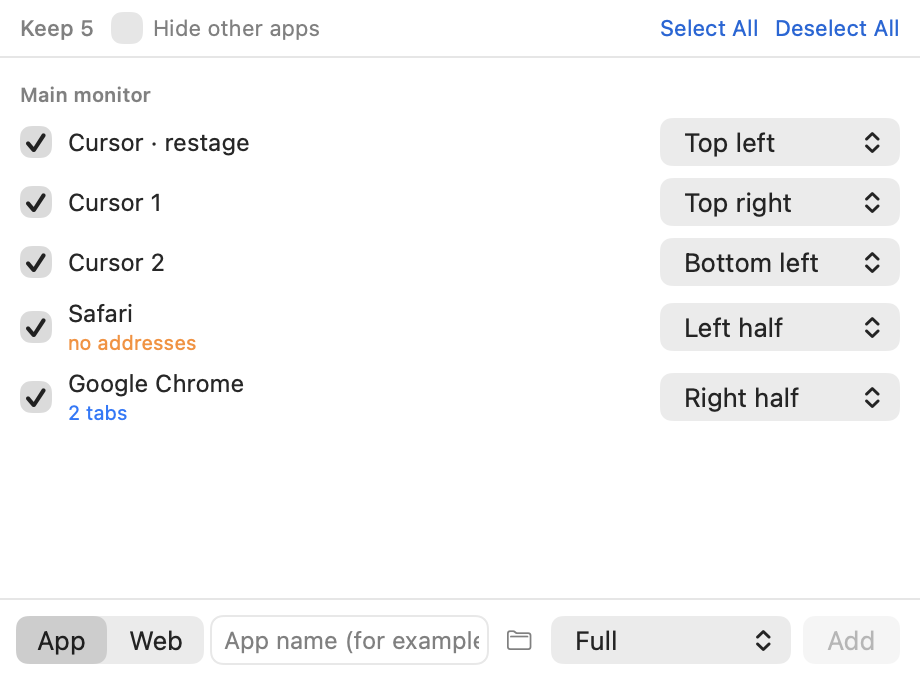
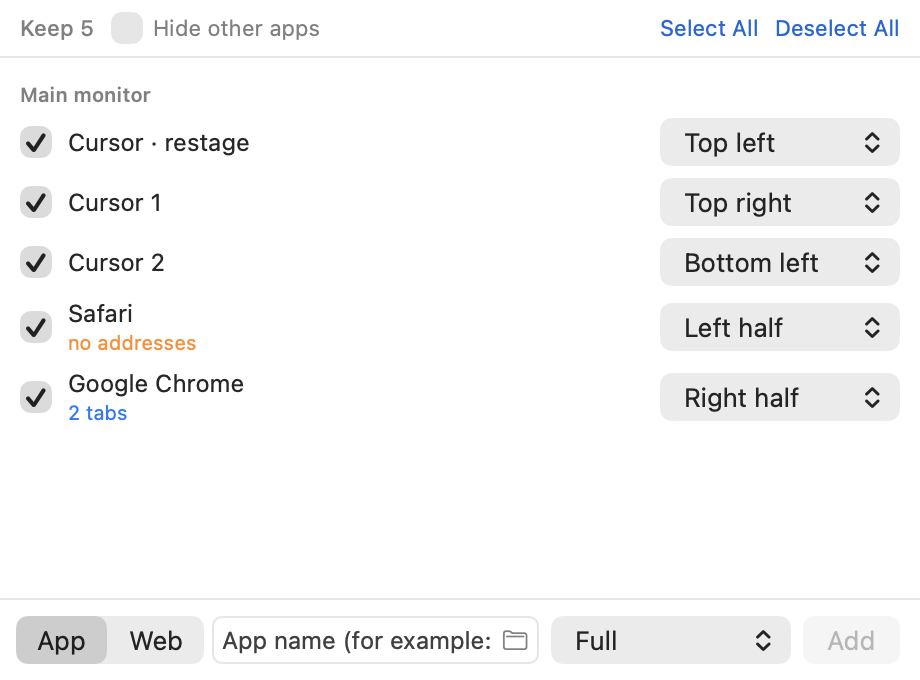
fix: 앱을 끌어다 놓으면 경로가 아니라 앱이 들어간다
Books.app을 끌어다 놓으니 항목이 생기지 않고 입력칸에 "Applications/Books.app"
이라는 글자만 들어갔다. 드롭을 받는 구역보다 입력칸 자신의 글자 드롭이 먼저
먹었다.

입력칸에도 파일 드롭을 직접 붙여, .app이면 글자를 넣지 않고 표시 이름을 풀어
지금 고른 자리로 바로 넣는다. 어느 쪽이 먼저 먹든 결과가 같도록 추가할 때도
입력값이 경로처럼 보이면 번들에서 이름을 푼다. 앞의 슬래시가 떨어져 나간
"Applications/Books.app"도 붙여서 다시 시도한다. 경로를 손으로 붙여 넣어도
이제 된다. 웹 모드에서는 항목을 넣지 않고 브라우저 이름만 채운다.

폴더 단추는 입력칸 밖에 떠 있었다. roundedBorder에 여백을 주고 겹쳐도 테두리
바깥에 붙는다. 입력칸을 직접 조립해 단추를 안에 넣었다. 배경과 테두리는
시스템 색을 그대로 써서 화면 모드를 따라간다.

Changed region(s): [[0.2435, 0.9265, 0.5783, 0.9574]]

diff --git a/Sources/restage/DraftEditorView.swift b/Sources/restage/DraftEditorView.swift
@@ -350,15 +350,6 @@ struct DraftEditorView: View {
                 .frame(width: 90)
                 .onChange(of: addMode) { _ in suggestions = [] }
                 nameField
-                Button(action: chooseFile) {
-                    Image(systemName: "folder")
-                        .font(.system(size: 11))
-                        .foregroundStyle(.secondary)
-                        .frame(width: 20, height: 20)
-                        .contentShape(Rectangle())
-                }
-                .buttonStyle(.plain)
-                .help(L10n.string("draft.choose_app_file"))
                 Picker("", selection: $newPlacement) {
                     ForEach(Slot.allCases, id: \.self) { slot in
                         Text(SlotLabel.text(slot)).tag(Placement.slot(slot))
@@ -390,20 +381,42 @@ struct DraftEditorView: View {
         .padding(.vertical, 8)
         .background(isDropTarget ? Color.accentColor.opacity(0.08) : Color.clear)
         .onDrop(of: [.fileURL], isTargeted: $isDropTarget) { providers in
-            AppChooser.acceptDrop(providers) { name in addDropped(name) }
+            AppChooser.acceptDrop(providers) { name in addResolved(name) }
         }
     }
 
     private var nameField: some View {
-        TextField(
-            L10n.string(addMode == .app
-                ? "draft.app_name_placeholder" : "draft.browser_name_placeholder"),
-            text: $newAppName)
-            .textFieldStyle(.roundedBorder)
-            .font(.system(size: 12))
+        HStack(spacing: 0) {
+            TextField(
+                L10n.string(addMode == .app
+                    ? "draft.app_name_placeholder" : "draft.browser_name_placeholder"),
+                text: $newAppName)
+                .textFieldStyle(.plain)
+                .font(.system(size: 12))
+            Button(action: chooseFile) {
+                Image(systemName: "folder")
+                    .font(.system(size: 11))
+                    .foregroundStyle(.secondary)
+                    .frame(width: Self.fieldButtonWidth, height: 18)
+                    .contentShape(Rectangle())
+            }
+            .buttonStyle(.plain)
+            .help(L10n.string("draft.choose_app_file"))
+        }
+        .padding(.leading, 5)
+        .padding(.vertical, 3)
+        .background(
+            RoundedRectangle(cornerRadius: 5, style: .continuous)
+                .fill(Color(nsColor: .textBackgroundColor))
+                .overlay(
+                    RoundedRectangle(cornerRadius: 5, style: .continuous)
+                        .strokeBorder(Color(nsColor: .separatorColor))))
             .onSubmit { add() }
             .onChange(of: newAppName) { typed in
                 suggestions = AppChooser.suggestions(for: typed, browsersOnly: addMode == .web)
+            }
+            .onDrop(of: [.fileURL], isTargeted: nil) { providers in
+                AppChooser.acceptDrop(providers) { name in addResolved(name) }
             }
             .popover(
                 isPresented: Binding(
@@ -444,7 +457,13 @@ struct DraftEditorView: View {
         addError = nil
     }
 
-    private func addDropped(_ name: String) {
+    private func addResolved(_ name: String) {
+        guard addMode == .app else {
+            newAppName = name
+            suggestions = []
+            addError = nil
+            return
+        }
         switch newPlacement {
         case .slot(let slot):
             editor.add(.app(name, slot: slot))
@@ -453,6 +472,8 @@ struct DraftEditorView: View {
         case .keepSize:
             editor.add(.app(name, slot: .full))
         }
+        newAppName = ""
+        suggestions = []
         addError = nil
     }
 
@@ -470,38 +491,41 @@ struct DraftEditorView: View {
             .map(URLNormalizer.normalize)
     }
 
+    private static let fieldButtonWidth: CGFloat = 24
+
     private func add() {
         let typed = newAppName.trimmingCharacters(in: .whitespaces)
         guard !typed.isEmpty else { return }
+        guard let name = resolvedName(typed) else { return }
+
+        switch addMode {
+        case .app:
+            addResolved(name)
+            return
+        case .web:
+            let urls = parsedURLs
+            guard !urls.isEmpty else {
+                addError = L10n.string("draft.no_urls")
+                return
+            }
+            let slot: Slot?
+            if case .slot(let chosen) = newPlacement { slot = chosen } else { slot = nil }
+            editor.add(.browser(name, slot: slot, tabs: urls))
+            newURLs = ""
+        }
+        newAppName = ""
+        suggestions = []
+        addError = nil
+    }
+
+    private func resolvedName(_ typed: String) -> String? {
+        if let fromPath = AppChooser.appName(fromPath: typed) { return fromPath }
         do {
             let bundleID = try InstalledApps.resolve(name: typed)
-            let name = InstalledApps.displayName(bundleID: bundleID) ?? typed
-            switch addMode {
-            case .app:
-                switch newPlacement {
-                case .slot(let slot):
-                    editor.add(.app(name, slot: slot))
-                case .fullscreen:
-                    editor.add(.app(name, slot: .full, fullscreen: true))
-                case .keepSize:
-                    editor.add(.app(name, slot: .full))
-                }
-            case .web:
-                let urls = parsedURLs
-                guard !urls.isEmpty else {
-                    addError = L10n.string("draft.no_urls")
-                    return
-                }
-                let slot: Slot?
-                if case .slot(let chosen) = newPlacement { slot = chosen } else { slot = nil }
-                editor.add(.browser(name, slot: slot, tabs: urls))
-                newURLs = ""
-            }
-            newAppName = ""
-            suggestions = []
-            addError = nil
+            return InstalledApps.displayName(bundleID: bundleID) ?? typed
         } catch {
             addError = "\(error)"
+            return nil
         }
     }
 }

diff --git a/Tests/RestageAppTests/AppChooserTests.swift b/Tests/RestageAppTests/AppChooserTests.swift
@@ -25,3 +25,26 @@ import Testing
     #expect(!notes.contains("Notes"))
     #expect(AppChooser.suggestions(for: "safari", browsersOnly: true).map(\.name) == ["Safari"])
 }
+
+@MainActor
+@Test func anAbsoluteBundlePathBecomesTheAppName() {
+    #expect(AppChooser.appName(fromPath: "/Applications/Safari.app") == "Safari")
+    #expect(AppChooser.appName(fromPath: "/System/Applications/Books.app") == "Books")
+}
+
+@MainActor
+@Test func aPathThatLostItsLeadingSlashStillResolves() {
+    #expect(AppChooser.appName(fromPath: "Applications/Safari.app") == "Safari")
+    #expect(AppChooser.appName(fromPath: " /Applications/Safari.app ") == "Safari")
+}
+
+@MainActor
+@Test func aPlainNameIsNotAPath() {
+    #expect(AppChooser.appName(fromPath: "Safari") == nil)
+    #expect(AppChooser.appName(fromPath: "") == nil)
+}
+
+@MainActor
+@Test func aPathToNothingResolvesToNothing() {
+    #expect(AppChooser.appName(fromPath: "/Applications/NoSuchApp.app") == nil)
+}

diff --git a/Sources/restage/AppChooser.swift b/Sources/restage/AppChooser.swift
@@ -31,6 +31,16 @@ enum AppChooser {
         return name(ofBundleAt: url)
     }
 
+    static func appName(fromPath path: String) -> String? {
+        let trimmed = path.trimmingCharacters(in: .whitespaces)
+        guard trimmed.hasSuffix(".app") || trimmed.contains("/") else { return nil }
+        let candidates = trimmed.hasPrefix("/") ? [trimmed] : [trimmed, "/" + trimmed]
+        for candidate in candidates {
+            if let name = name(ofBundleAt: URL(fileURLWithPath: candidate)) { return name }
+        }
+        return nil
+    }
+
     static func name(ofBundleAt url: URL) -> String? {
         guard url.pathExtension.lowercased() == "app",
               let bundleID = Bundle(url: url)?.bundleIdentifier else { return nil }

diff --git a/README.ko.md b/README.ko.md
@@ -314,7 +314,7 @@ restage가 이를 감지해 사유를 밝히고 멈춘다.
 
 ```bash
 swift build
-swift test        # 252개
+swift test        # 256개
 ```
 
 실행 중인 앱을 대상으로 배치 성공률을 측정한다.

diff --git a/README.md b/README.md
@@ -344,7 +344,7 @@ windows then. restage detects this, says so, and stops.
 
 ```bash
 swift build
-swift test        # 252 tests
+swift test        # 256 tests
 ```
 
 Measure placement against the apps you have running:
